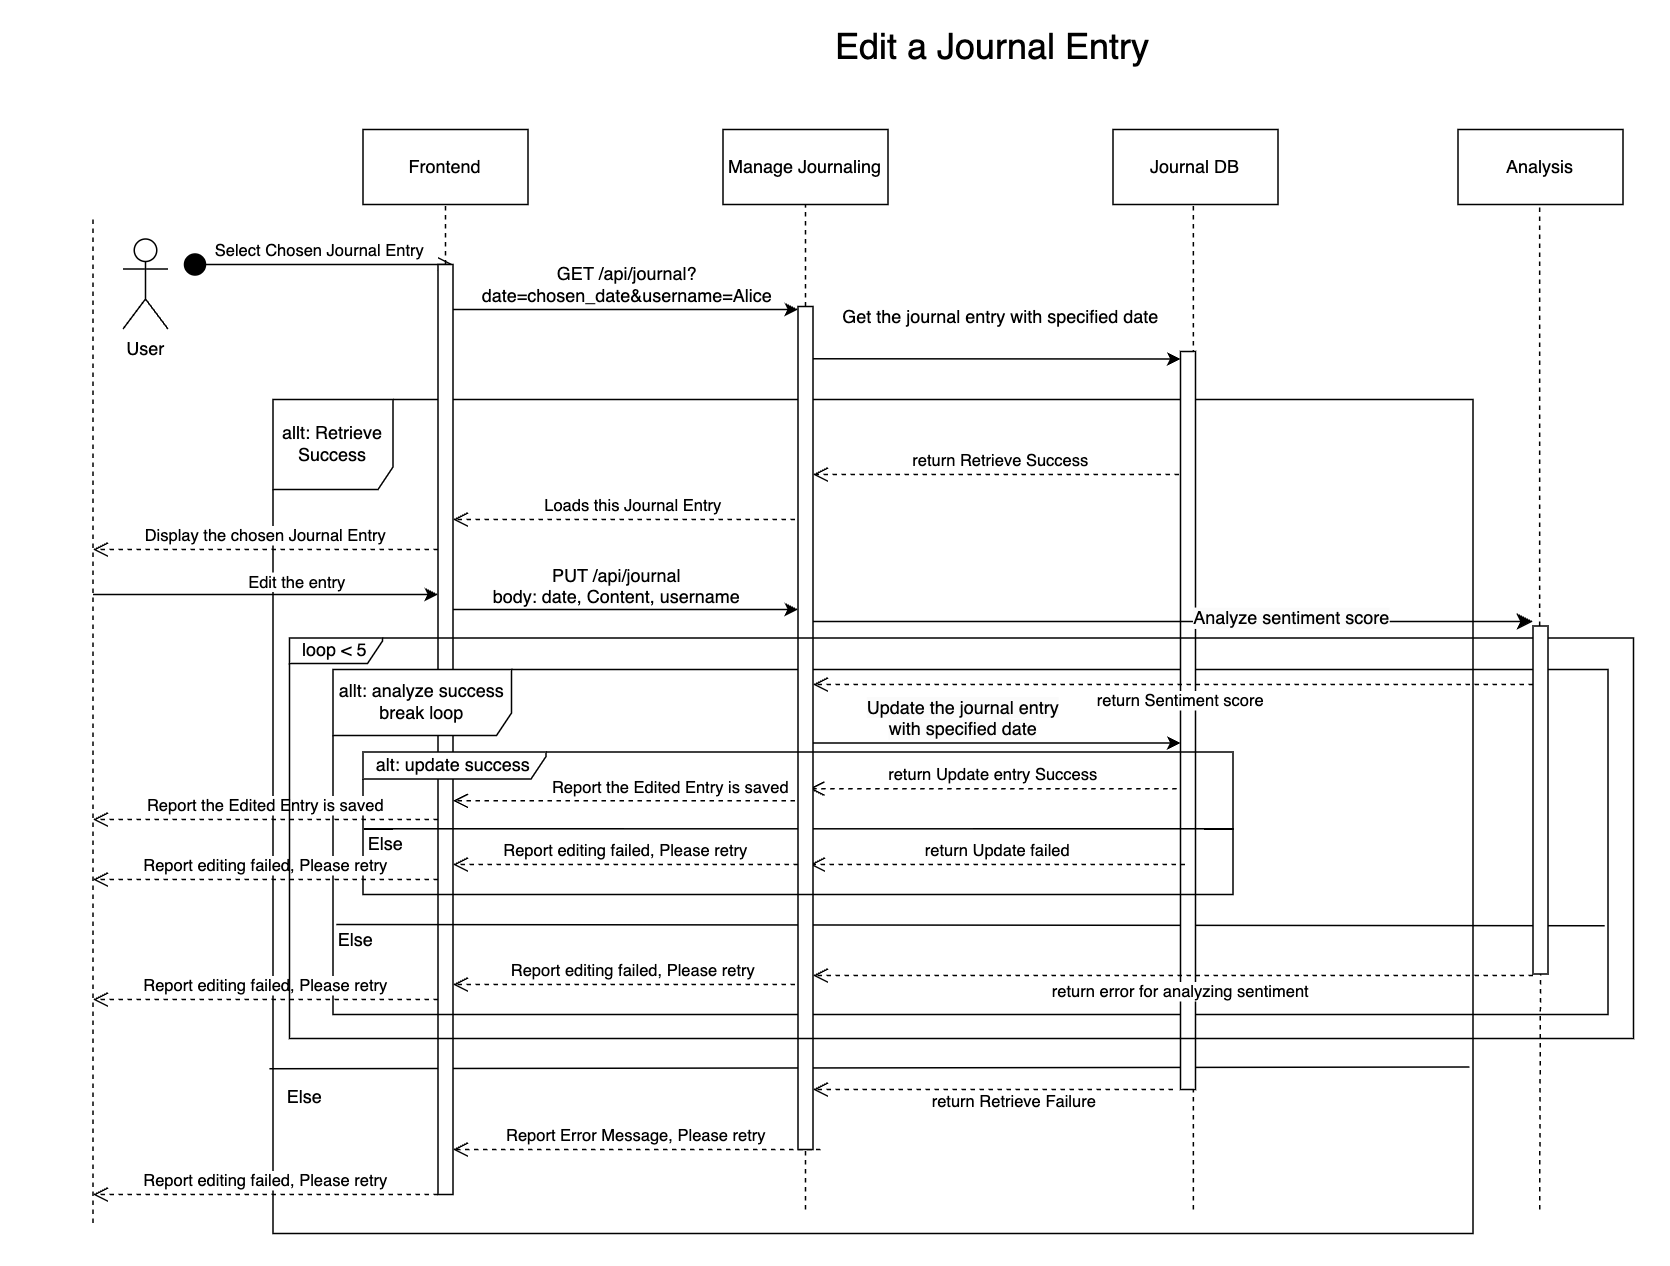
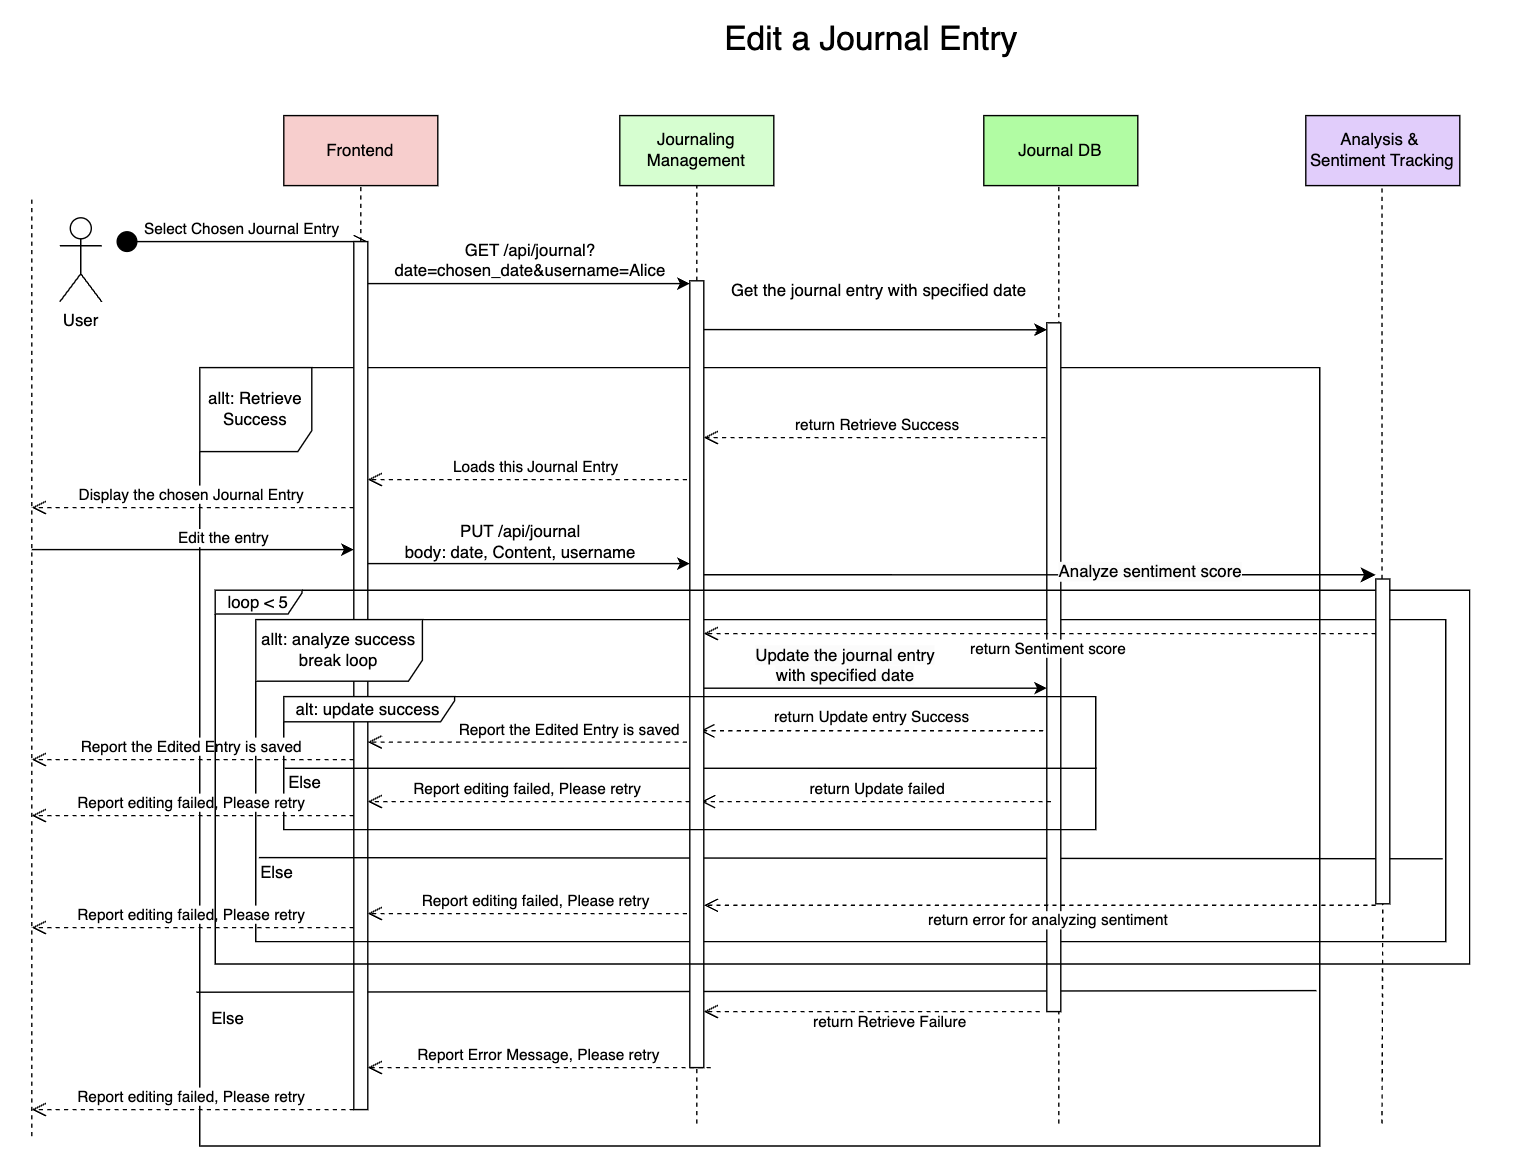
updated diagrams + firebase documentation

diff --git a/documentation/M3_Requirements_and_Design.md b/documentation/M3_Requirements_and_Design.md
@@ -8,7 +8,7 @@
 | Feb. 25th | Designs Specification    | Updated function interface agreement of user and journal sections based on the actual implementation |
 | Feb. 28th    | Designs Specification   | Added authorization header checks for users, hence the update |
 | Mar. 1st | Functional Requirements| Updated based on implementation |
-| Mar. 2nd | Non-functional requiresments | Updated based on implementation |
+| Mar. 2nd | Non-functional requiresments, Sequence Diagram, Dependency Diagram  | Updated based on implementation |
 
 ## 2. Project Description
 Journal - Journey with the Bot is an unique journaling and mental health companion application designed to help users track their moods, engage in self-reflection, and manage stress effectively. Unlike traditional journaling apps, our platform integrates an AI-powered therapy bot that provides sophisticated prompts, emotional support, and personalized feedback. By analyzing user entries and mood trends, the app encourages healthier emotional habits and enhances mental well-being.
@@ -719,11 +719,10 @@ Journal - Journey with the Bot is an unique journaling and mental health compani
 
 
 ### **4.2. Databases**
-1. **Journals (MongoDB Collection)**
+1. **Journals DB (MongoDB Collection)**
     - **Purpose**: Stores user journal entries and images in data url formats.
-2. **Users (MongoDB Collection)**
+2. **Users DB (MongoDB Collection)**
     - **Purpose**: Stores user profile along with reminder settings.
-3. 
 
 
 ### **4.3. External Modules**
@@ -745,6 +744,11 @@ Journal - Journey with the Bot is an unique journaling and mental health compani
         1. POST /api/sentiment
             - **Request Body**: journal entry
             - **Response Body**: Sentiment score
+4. **Firebase Cloud Messaging (FCM) - Reminder System**
+    - **Purpose**: Sends push notifications to remind users about journal entries.
+    - **Rationale**: Firebase Cloud Messaging is free and easy to integrate with both Android and backend services.
+    - **Interfaces**: The FCM is integrated in the User component of our app, with /api/profile and /api/profile/reminder to sent when a user sets a reminder for journal entries. The reminder is triggered based on user's device time's selected days and time preferences stored in the database in both server time and user time.
+        
 
 ### **4.4. Frameworks**
 1. **Docker**
@@ -756,10 +760,7 @@ Journal - Journey with the Bot is an unique journaling and mental health compani
 3. **AWS EC2**
     - **Purpose**: Cloud hosting
     - **Reason**: Enables scalable and cost-effective for hosting backend services. It is also introduced in our tutorial, so all group members are familiar with it.
-4. **Kubernetes**
-    - **Purpose**: Container orchestration
-    - **Reason**: Helps manage and scale containers efficiently across multiple nodes.
-5. **RASA**
+4. **RASA**
     - **Purpose**: Chatbot for guided journaling.
     - **Reason**: Enables structured journaling by dynamically adjusting responses based on user input.
 
